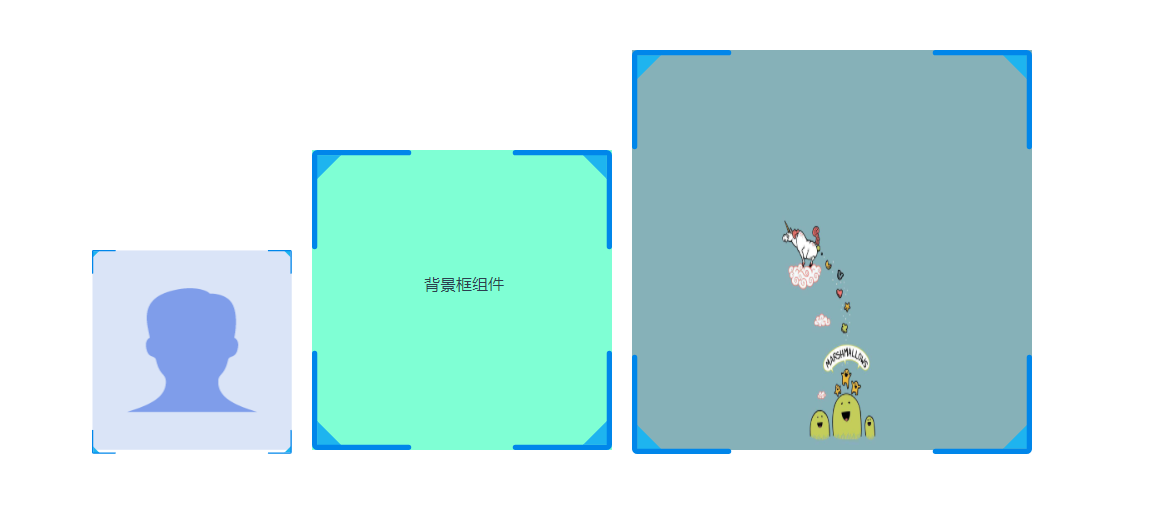
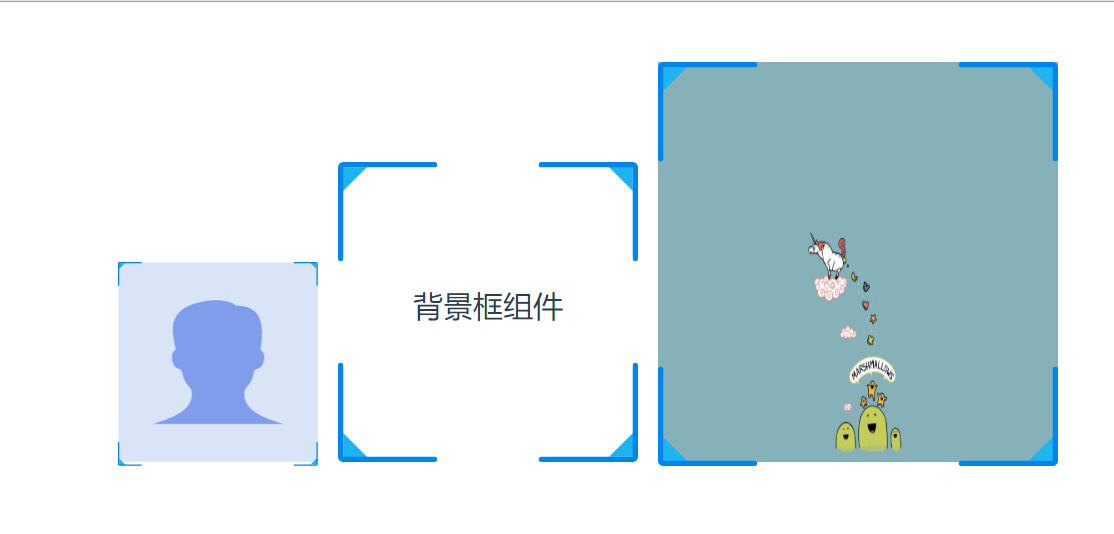
修改demo展示

Changed region(s): [[0.061, 0.0928, 0.9767, 0.8975], [0.0, 0.0, 1.0, 0.0309]]

diff --git a/src/components/HelloWorld.vue b/src/components/HelloWorld.vue
@@ -8,8 +8,8 @@
         </div>
         <div class="item">
             <background-box :src-img="defImg" frame-height="100px" frame-width="100px">
-                <div style="background: aquamarine;height: 300px;width: 300px;display: block;text-align: center">
-                    <span style="position:absolute;text-align: center;right: 36%;margin-top: 9vw;">背景框组件</span>
+                <div style="background: #ffffff;height: 300px;width: 300px;display: block;text-align: center">
+                    <span style="position:absolute;text-align: center;right: 25%;margin-top: 9vw;font-size: 30px">背景框组件</span>
                 </div>
             </background-box>
         </div>
